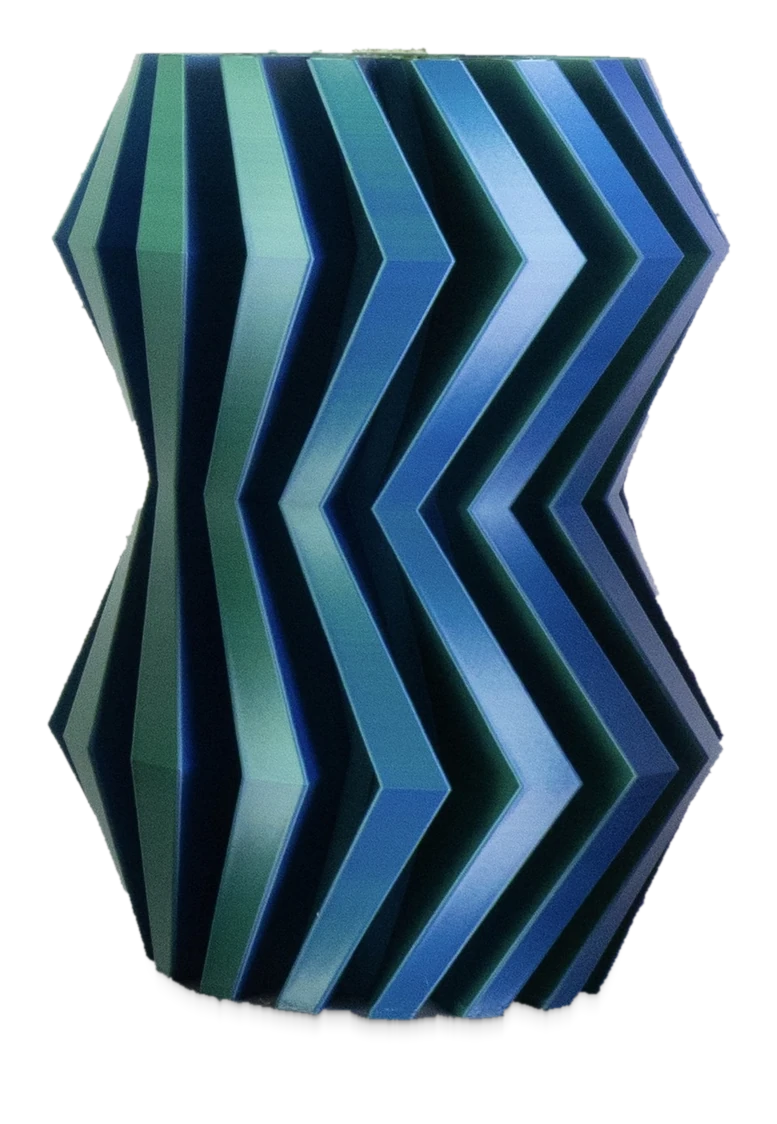
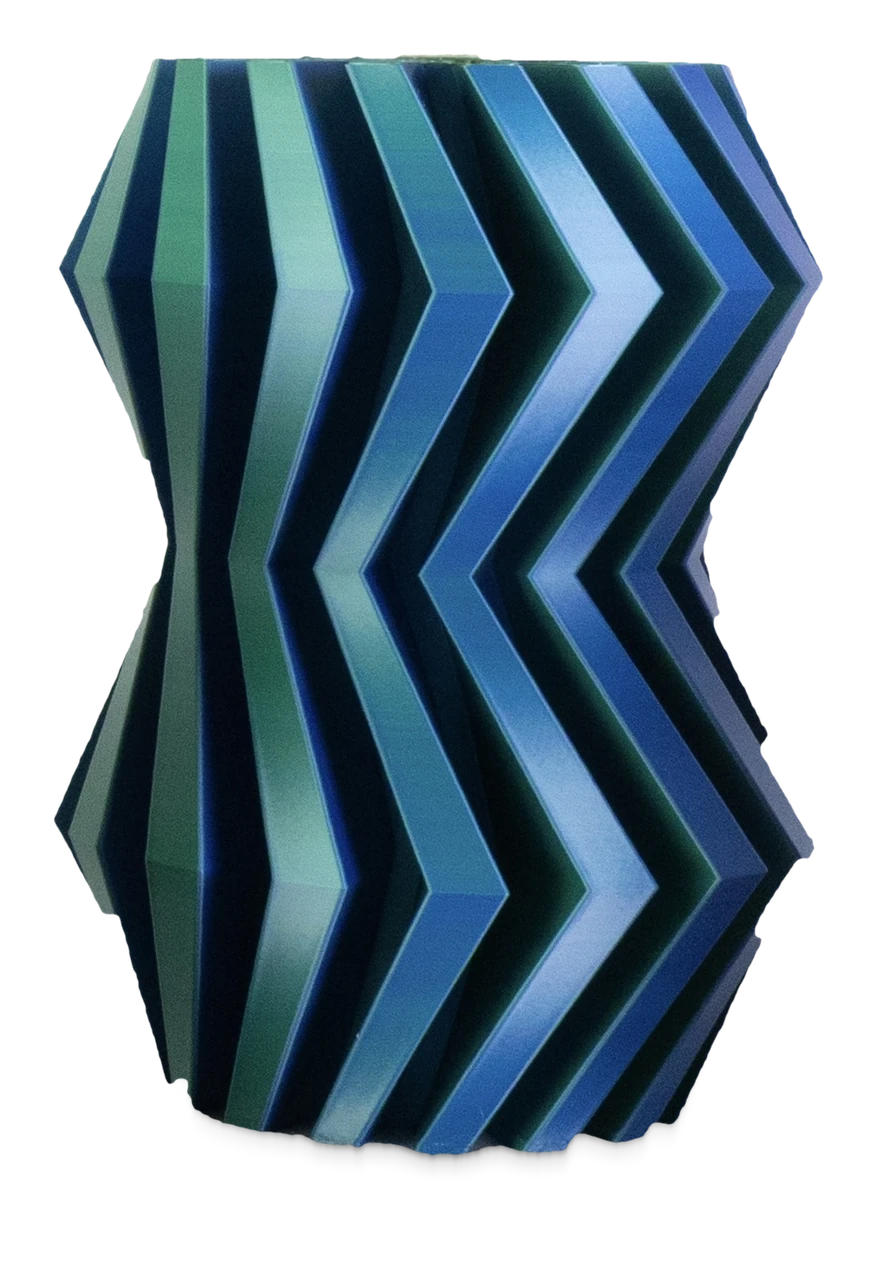
Vetrina: Zig e Torsione dopo Spira, Zig ritagliato meglio, Starlight con foto originale e video terzo

diff --git a/tutti-i-design.html b/tutti-i-design.html
@@ -91,26 +91,6 @@
     <div class="container">
       <div class="grid-3 products-grid">
 
-        <a href="prodotto-zig.html" class="product-card reveal">
-          <div class="card-img card-img--flat" style="display:flex; align-items:flex-end; justify-content:center; padding:12px 12px 0;">
-            <img src="images/zig-blu-scontornato.webp" alt="Zig" style="height:60.9%; width:auto; max-width:100%; object-fit:contain; object-position:center bottom; transform:translateY(calc(9.16% - 16px));">
-          </div>
-          <p class="product-card-title">Zig</p>
-          <span class="pc-prezzo" data-prezzo="zig-s"></span>
-          <p class="pc-sotto" style="font-size:13px; color:var(--text-muted); margin-top:6px;">Vaso scultura</p>
-          <span class="pc-link" style="display:inline-block; margin-top:12px; font-size:10px; letter-spacing:0.16em; text-transform:uppercase; color:var(--accent);">Scopri il design →</span>
-        </a>
-
-        <a href="prodotto-torsione.html" class="product-card reveal reveal-delay-2">
-          <div class="card-img card-img--flat" style="display:flex; align-items:flex-end; justify-content:center; padding:12px 12px 0;">
-            <img src="images/torsione-scontornato.webp" alt="Torsione" style="height:82.1%; width:auto; max-width:100%; object-fit:contain; object-position:center bottom; transform:translateY(calc(3.03% - 16px));">
-          </div>
-          <p class="product-card-title">Torsione</p>
-          <span class="pc-prezzo" data-prezzo="torsione"></span>
-          <p class="pc-sotto" style="font-size:13px; color:var(--text-muted); margin-top:6px;">Vaso scultura</p>
-          <span class="pc-link" style="display:inline-block; margin-top:12px; font-size:10px; letter-spacing:0.16em; text-transform:uppercase; color:var(--accent);">Scopri il design →</span>
-        </a>
-
         <a href="prodotto-bombato.html" class="product-card reveal reveal-delay-3">
           <div class="card-img card-img--flat" style="display:flex; align-items:flex-end; justify-content:center; padding:12px 12px 0;">
             <img src="images/bombato-transparent.png" alt="Bombato" style="height:44.3%; width:auto; max-width:100%; object-fit:contain; object-position:center bottom; transform:translateY(calc(7.34% - 16px));">
@@ -147,6 +127,26 @@
           </div>
           <p class="product-card-title">Spira</p>
           <span class="pc-prezzo" data-prezzo="spin-s"></span>
+          <p class="pc-sotto" style="font-size:13px; color:var(--text-muted); margin-top:6px;">Vaso scultura</p>
+          <span class="pc-link" style="display:inline-block; margin-top:12px; font-size:10px; letter-spacing:0.16em; text-transform:uppercase; color:var(--accent);">Scopri il design →</span>
+        </a>
+
+        <a href="prodotto-zig.html" class="product-card reveal">
+          <div class="card-img card-img--flat" style="display:flex; align-items:flex-end; justify-content:center; padding:12px 12px 0;">
+            <img src="images/zig-blu-scontornato.webp?v=2" alt="Zig" style="height:60.9%; width:auto; max-width:100%; object-fit:contain; object-position:center bottom; transform:translateY(calc(9.19% - 16px));">
+          </div>
+          <p class="product-card-title">Zig</p>
+          <span class="pc-prezzo" data-prezzo="zig-s"></span>
+          <p class="pc-sotto" style="font-size:13px; color:var(--text-muted); margin-top:6px;">Vaso scultura</p>
+          <span class="pc-link" style="display:inline-block; margin-top:12px; font-size:10px; letter-spacing:0.16em; text-transform:uppercase; color:var(--accent);">Scopri il design →</span>
+        </a>
+
+        <a href="prodotto-torsione.html" class="product-card reveal reveal-delay-2">
+          <div class="card-img card-img--flat" style="display:flex; align-items:flex-end; justify-content:center; padding:12px 12px 0;">
+            <img src="images/torsione-scontornato.webp" alt="Torsione" style="height:73.0%; width:auto; max-width:100%; object-fit:contain; object-position:center bottom; transform:translateY(calc(3.03% - 16px));">
+          </div>
+          <p class="product-card-title">Torsione</p>
+          <span class="pc-prezzo" data-prezzo="torsione"></span>
           <p class="pc-sotto" style="font-size:13px; color:var(--text-muted); margin-top:6px;">Vaso scultura</p>
           <span class="pc-link" style="display:inline-block; margin-top:12px; font-size:10px; letter-spacing:0.16em; text-transform:uppercase; color:var(--accent);">Scopri il design →</span>
         </a>

diff --git a/prodotto-starlight.html b/prodotto-starlight.html
@@ -440,7 +440,7 @@
           </p>
         </div>
         <div class="reveal reveal-delay-2">
-          <img src="images/Starlight/web/starlight-dettaglio-quadrata.webp" alt="Starlight, dettaglio ravvicinato delle pieghe e dell&#x27;apertura a stella" loading="lazy" style="width:100%; aspect-ratio:1/1; object-fit:cover; border-radius:2px;">
+          <img src="images/Starlight/web/starlight-dettaglio-originale.webp" alt="Starlight, dettaglio ravvicinato delle pieghe e dell&#x27;apertura a stella" loading="lazy" style="width:100%; aspect-ratio:1/1; object-fit:cover; border-radius:2px;">
         </div>
       </div>
     </div>
@@ -546,9 +546,9 @@
   var FOTO = [
     { src:'images/starlight-scontornato.webp?v=1', alt:'Starlight accesa, vista frontale' },
     { src:'images/lampada-sera-1024.jpg', alt:'Starlight accesa di sera, su un mobile' },
+    { video:'images/Starlight/web/starlight-video.mp4', poster:'images/Starlight/web/starlight-video-poster.jpg', alt:'Video di Starlight accesa' },
     { src:'images/Starlight/web/starlight-dettaglio-originale.webp', alt:'Starlight spenta, dettaglio delle pieghe e dell\'apertura a stella' },
-    { src:'images/Starlight/web/starlight-accensione.jpg', alt:'Starlight che si accende, con una mano sul cavo' },
-    { video:'images/Starlight/web/starlight-video.mp4', poster:'images/Starlight/web/starlight-video-poster.jpg', alt:'Video di Starlight accesa' }
+    { src:'images/Starlight/web/starlight-accensione.jpg', alt:'Starlight che si accende, con una mano sul cavo' }
   ];
   </script>
 
